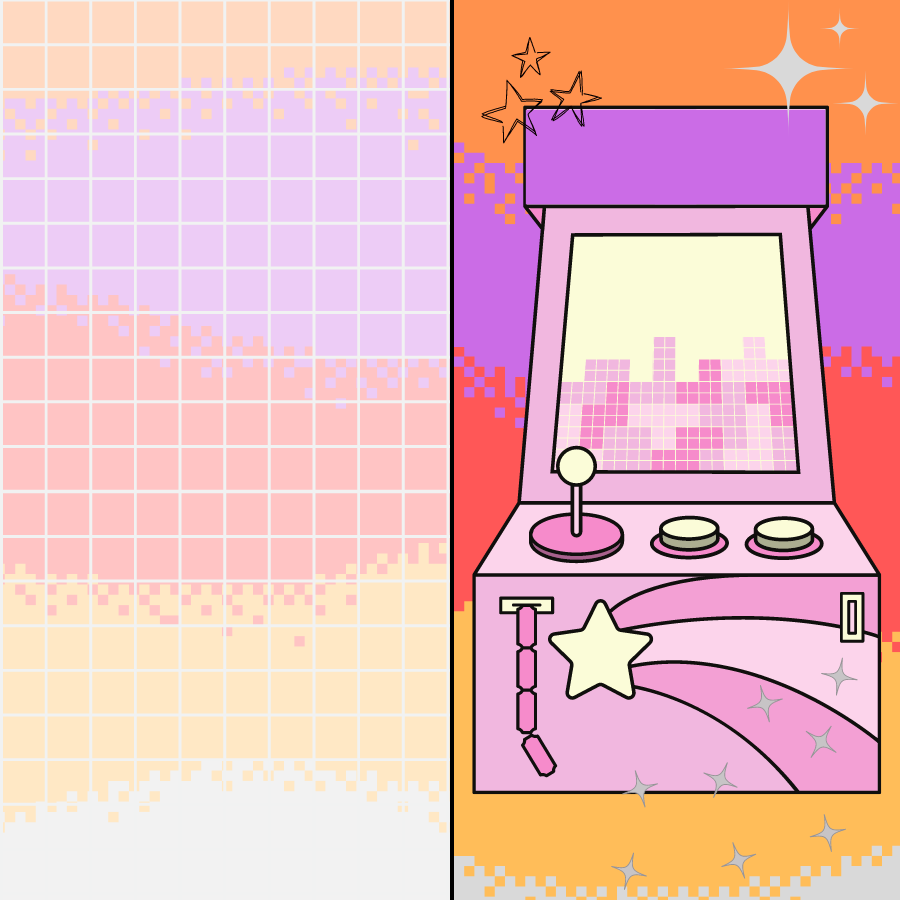
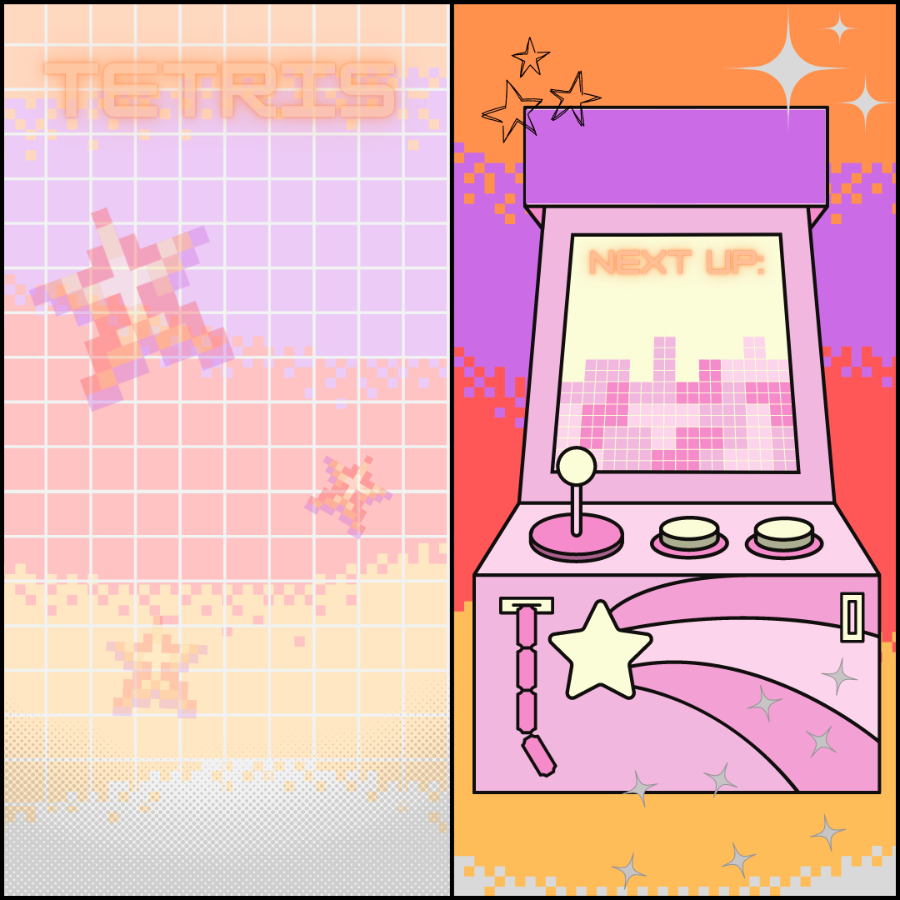
updated background

diff --git a/game.go b/game.go
@@ -24,9 +24,9 @@ type Box struct {
 }
 
 type Game struct {
-	delta_time time.Time
-	current_tetramino Tetramino
-	next_tetramino Tetramino
+	deltaTime time.Time
+	currentTetramino Tetramino
+	nextTetramino Tetramino
 	board [20][10]Box
 	points int
 	game_over bool
@@ -37,29 +37,29 @@ type Game struct {
 
 func (g *Game) NewTetramino() {
 	for i := 0; i < 4; i++ {
-		x := g.current_tetramino.x + g.current_tetramino.shape[i][0]
-		y := g.current_tetramino.y + g.current_tetramino.shape[i][1]
+		x := g.currentTetramino.x + g.currentTetramino.shape[i][0]
+		y := g.currentTetramino.y + g.currentTetramino.shape[i][1]
 		g.board[y][x].exists = true
-		g.board[y][x].color = g.current_tetramino.color
+		g.board[y][x].color = g.currentTetramino.color
 	}
-	g.current_tetramino = g.next_tetramino
-	g.current_tetramino.x = 5
-	g.current_tetramino.y = 0
-	if g.current_tetramino.ShouldFreeze(g.board) {
+	g.currentTetramino = g.nextTetramino
+	g.currentTetramino.x = 5
+	g.currentTetramino.y = 0
+	if g.currentTetramino.ShouldFreeze(g.board) {
 		g.playState = GAMEOVER
 		g.audioMixer.Stop()
 	}
-	g.next_tetramino = createTetramino()
+	g.nextTetramino = createTetramino()
 }
 
 func (g *Game) FastForward() {
-	for !g.current_tetramino.ShouldFreeze(g.board) {
-		g.current_tetramino.Move(0, 1)
+	for !g.currentTetramino.ShouldFreeze(g.board) {
+		g.currentTetramino.Move(0, 1)
 	}
 }
 
 func (g *Game) ClearLines() int {
-	cleared_lines := 0
+	clearedLines := 0
 	for i := 19; i >= 0; i-- {
 		cleared := true
 		for j := 0; j < 10; j++ {
@@ -70,7 +70,7 @@ func (g *Game) ClearLines() int {
 
 		if cleared {
 			g.audioMixer.ClearLine()
-			cleared_lines++
+			clearedLines++
 			for j := i-1; j > 0; j-- {
 				for k := 0; k < 10; k++ {
 					g.board[j+1][k] = g.board[j][k]
@@ -84,7 +84,7 @@ func (g *Game) ClearLines() int {
 		}
 	}
 
-	return CalculateScore(cleared_lines)
+	return CalculateScore(clearedLines)
 }
 
 func (g *Game) ManageAudio() {
@@ -98,15 +98,15 @@ func (g *Game) ManageInput() error {
 	if inpututil.IsKeyJustPressed(ebiten.KeyEscape) {
 		return fmt.Errorf("game is interrupted")
 	} else if inpututil.IsKeyJustPressed(ebiten.KeyLeft) {
-		if g.current_tetramino.CanMove(g.board, [2]int{-1, 0}) {
-			g.current_tetramino.Move(-1, 0)
+		if g.currentTetramino.CanMove(g.board, [2]int{-1, 0}) {
+			g.currentTetramino.Move(-1, 0)
 		}
 	} else if inpututil.IsKeyJustPressed(ebiten.KeyRight) {
-		if g.current_tetramino.CanMove(g.board, [2]int{1, 0}) {
-			g.current_tetramino.Move(1, 0)
+		if g.currentTetramino.CanMove(g.board, [2]int{1, 0}) {
+			g.currentTetramino.Move(1, 0)
 		}
 	} else if inpututil.IsKeyJustPressed(ebiten.KeyUp) {
-		g.current_tetramino.Rotate()
+		g.currentTetramino.Rotate()
 	} else if inpututil.IsKeyJustPressed(ebiten.KeyDown) {
 		g.FastForward()
 	}
@@ -120,13 +120,13 @@ func (g *Game) Update(screen *ebiten.Image) error {
 		g.ManageAudio()
 		g.ManageInput()
 
-		current_time := time.Now()
-		if current_time.Sub(g.delta_time) > SECOND/START_SPEED {
-			if g.current_tetramino.ShouldFreeze(g.board) {
+		currentTime := time.Now()
+		if currentTime.Sub(g.deltaTime) > SECOND/START_SPEED {
+			if g.currentTetramino.ShouldFreeze(g.board) {
 				g.NewTetramino()
 			}
-			g.current_tetramino.Move(0, 1)
-			g.delta_time = current_time
+			g.currentTetramino.Move(0, 1)
+			g.deltaTime = currentTime
 		}
 
 		g.points += g.ClearLines()
@@ -151,7 +151,7 @@ func (g *Game) Update(screen *ebiten.Image) error {
 
 func (g *Game) Draw(screen *ebiten.Image) {
 	screen.DrawImage(g.background, nil)
-	g.current_tetramino.Draw(screen)
+	g.currentTetramino.Draw(screen)
 
 	for i := 0; i < 20; i++ {
 		for j := 0; j < 10; j++ {
@@ -173,7 +173,7 @@ func (g *Game) Draw(screen *ebiten.Image) {
 		}
 	}
 
-	g.next_tetramino.DrawQueue(screen)
+	g.nextTetramino.DrawQueue(screen)
 	score_offset := 0
 	if g.points > 100000 {
 		score_offset = 5
@@ -194,8 +194,15 @@ func (g *Game) Draw(screen *ebiten.Image) {
 			BLOCKSIZE*5,
 			Black)
 
-		text.Draw(screen, "GAME OVER", regularFont, 6*BLOCKSIZE, 7*BLOCKSIZE, Red)
-		text.Draw(screen, "PLAY AGAIN", regularFont, 6*BLOCKSIZE, 9*BLOCKSIZE, Red)
+		ebitenutil.DrawRect(screen,
+			float64(5 * BLOCKSIZE)+2,
+			float64(5 * BLOCKSIZE)+2,
+			BLOCKSIZE*10-4,
+			BLOCKSIZE*5-4,
+			Orange)
+
+		text.Draw(screen, "GAME OVER", regularFont, 6*BLOCKSIZE, 7*BLOCKSIZE, Black)
+		text.Draw(screen, "PLAY AGAIN", regularFont, 6*BLOCKSIZE, 9*BLOCKSIZE, Black)
 	}
 }
 
@@ -211,16 +218,16 @@ func (g *Game) Layout(outsideWidth, outsideHeight int) (int, int) {
 
 func CreateGame() Game {
 	game := Game{
-		current_tetramino: createTetramino(),
-		next_tetramino: createTetramino(),
-		delta_time: time.Now(),
+		currentTetramino: createTetramino(),
+		nextTetramino: createTetramino(),
+		deltaTime: time.Now(),
 		board: InitBoard(),
 		game_over: false,
 		playState: PLAY,
 	}
 
-	game.current_tetramino.x = 5
-	game.current_tetramino.y = 0
+	game.currentTetramino.x = 5
+	game.currentTetramino.y = 0
 
 	image, _, err := ebitenutil.NewImageFromFile("assets/graphics/background.png", ebiten.FilterDefault)
 	if err != nil {

diff --git a/tetramino.go b/tetramino.go
@@ -122,14 +122,16 @@ func createTetramino() Tetramino {
 	case 1:
 		return Tetramino{
 			shape: [4][2]int{{0,0},{-1, 0}, {1,0}, {2,0}},
-			color: LightBlue,
+			//color: LightBlue,
+			color: DelftBlue,
 			x: WAIT_X-1,
 			y: WAIT_Y,
 		}
 	case 2:
 		return Tetramino{
 			shape: [4][2]int{{0,0},{0, 1}, {1,0}, {1,1}},
-			color: Yellow,
+			//color: Yellow,
+			color: Sapphire,
 			x: WAIT_X,
 			y: WAIT_Y,
 			offsetX: -30,
@@ -138,7 +140,8 @@ func createTetramino() Tetramino {
 	case 3:
 		return Tetramino{
 			shape: [4][2]int{{0,0},{-1, 0}, {1,0}, {0,1}},
-			color: Cyan,
+			//color: Cyan,
+			color: UltraViolet,
 			x: WAIT_X,
 			y: WAIT_Y,
 			offsetX: -15,
@@ -147,7 +150,8 @@ func createTetramino() Tetramino {
 	case 4:
 		return Tetramino{
 			shape: [4][2]int{{0,0},{0, -1}, {0,1}, {1,1}},
-			color: Orange,
+			//color: Orange,
+			color: PompAndPower,
 			x: WAIT_X,
 			y: WAIT_Y,
 			offsetX: -20,
@@ -156,7 +160,8 @@ func createTetramino() Tetramino {
 	case 5:
 		return Tetramino{
 			shape: [4][2]int{{0,0},{-1, 0}, {0,1}, {1,1}},
-			color: Green,
+			//color: Green,
+			color: LightRed,
 			x: WAIT_X,
 			y: WAIT_Y,
 			offsetX: -10,
@@ -165,7 +170,8 @@ func createTetramino() Tetramino {
 	case 6:
 		return Tetramino{
 			shape: [4][2]int{{0,0},{0, -1}, {-1,1}, {0,1}},
-			color: Blue,
+			//color: Blue,
+			color: BakerMillerPink,
 			x: WAIT_X,
 			y: WAIT_Y,
 			offsetX: -15,
@@ -174,7 +180,8 @@ func createTetramino() Tetramino {
 	case 7:
 		return Tetramino{
 			shape: [4][2]int{{0,0},{-1, 0}, {0,-1}, {1,-1}},
-			color: Red,
+			//color: Red,
+			color: Plum,
 			x: WAIT_X,
 			y: WAIT_Y,
 		}

diff --git a/main.go b/main.go
@@ -34,6 +34,13 @@ var (
 	Green = color.RGBA{50, 205, 50, 255}
 	Black = color.RGBA{0, 0, 0, 255}
 	regularFont font.Face
+	DelftBlue = color.RGBA{41, 60, 105, 255}
+	Sapphire = color.RGBA{43, 80, 170, 255}
+	UltraViolet = color.RGBA{96, 94, 163, 255}
+	PompAndPower = color.RGBA{149, 107, 156, 255}
+	LightRed = color.RGBA{255, 133, 141, 255}
+	BakerMillerPink = color.RGBA{255, 146, 185, 255}
+	Plum = color.RGBA{255, 159, 229, 255}
 )
 
 func main() {
